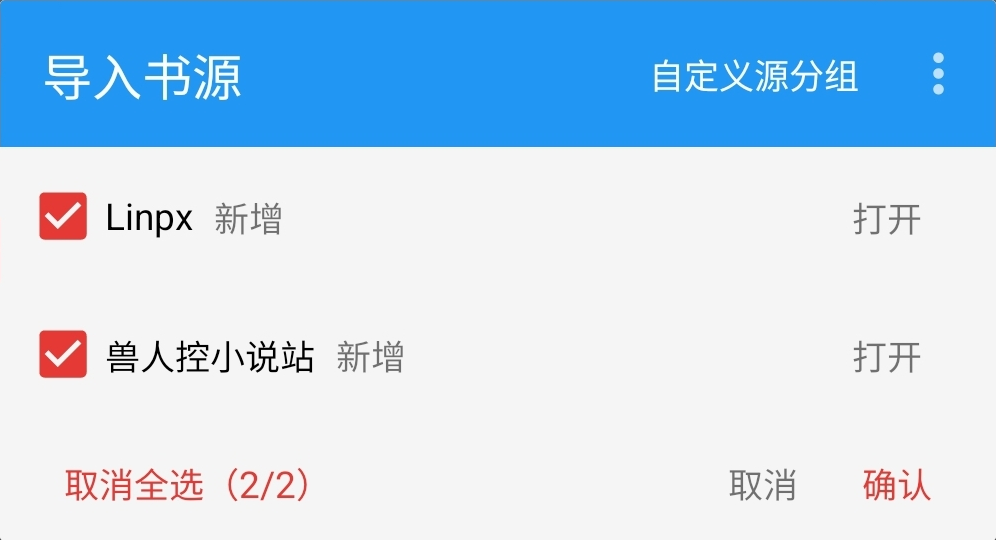
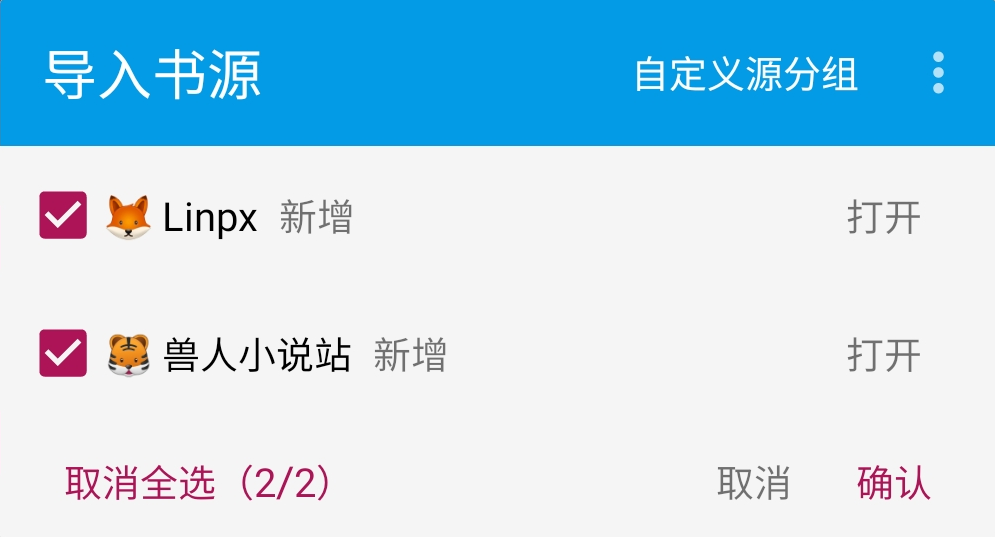
站点：更新教程图片 2

diff --git a/doc/ImportBookSource.md b/doc/ImportBookSource.md
@@ -81,7 +81,7 @@ head:
 ![img](./pic/OpenInLegado.png)
 
 #### 2.导入并启用书源
-![img](./pic/InportBookSourcePixiv.jpg)
+![img](./pic/InportBookSourcePixiv.png)
 </details>
 
 
@@ -137,7 +137,7 @@ legado://import/addToBookshelf?src={url}
 
 **首次点击【订阅规则】 即可导入**
 
-![img](./pic/InportBookSourcePixiv.jpg)
+![img](./pic/InportBookSourcePixiv.png)
 
 **导入之后，再次点击则会检查更新**
 </details>
@@ -160,7 +160,7 @@ legado://import/addToBookshelf?src={url}
 #### 4. 导入并启用书源
 **如果导入失败，请开启代理，或过段时间重试**
 
-![img](./pic/InportBookSourcePixiv.jpg)
+![img](./pic/InportBookSourcePixiv.png)
 </details>
 
 
@@ -178,5 +178,5 @@ legado://import/addToBookshelf?src={url}
 ![img](./pic/OpenInLegado.png)
 
 #### 3.导入并启用书源/订阅源
-![img](./pic/InportBookSourcePixiv.jpg)
+![img](./pic/InportBookSourcePixiv.png)
 </details>

diff --git a/doc/QuickStart.md b/doc/QuickStart.md
@@ -135,7 +135,7 @@ head:
 ![img](./pic/OpenInLegado.png)
 
 #### 2.导入并启用书源
-![img](./pic/InportBookSourcePixiv.jpg)
+![img](./pic/InportBookSourcePixiv.png)
 </details>
 
 
@@ -168,7 +168,7 @@ head:
 
 **首次点击【订阅规则】 即可导入**
 
-![img](./pic/InportBookSourcePixiv.jpg)
+![img](./pic/InportBookSourcePixiv.png)
 
 **导入之后，再次点击则会检查更新**
 </details>

diff --git a/doc/ImportRssSource.md b/doc/ImportRssSource.md
@@ -147,5 +147,5 @@ head:
 ![img](./pic/OpenInLegado.png)
 
 #### 3.导入并启用书源/订阅源
-![img](./pic/InportBookSourcePixiv.jpg)
+![img](./pic/InportBookSourcePixiv.png)
 </details>

diff --git a/doc/Pixiv.md b/doc/Pixiv.md
@@ -397,7 +397,7 @@ https://www.pixiv.net/users/16721009
 - 点击按钮，导入书源；再次点击，则可更新书源
 - 此处使用的是 Jsdelivr CDN ，更新有延迟
 
-![img](./pic/InportBookSourcePixiv.jpg)
+![img](./pic/InportBookSourcePixiv.png)
 
 
 ###  🔍 站内搜索